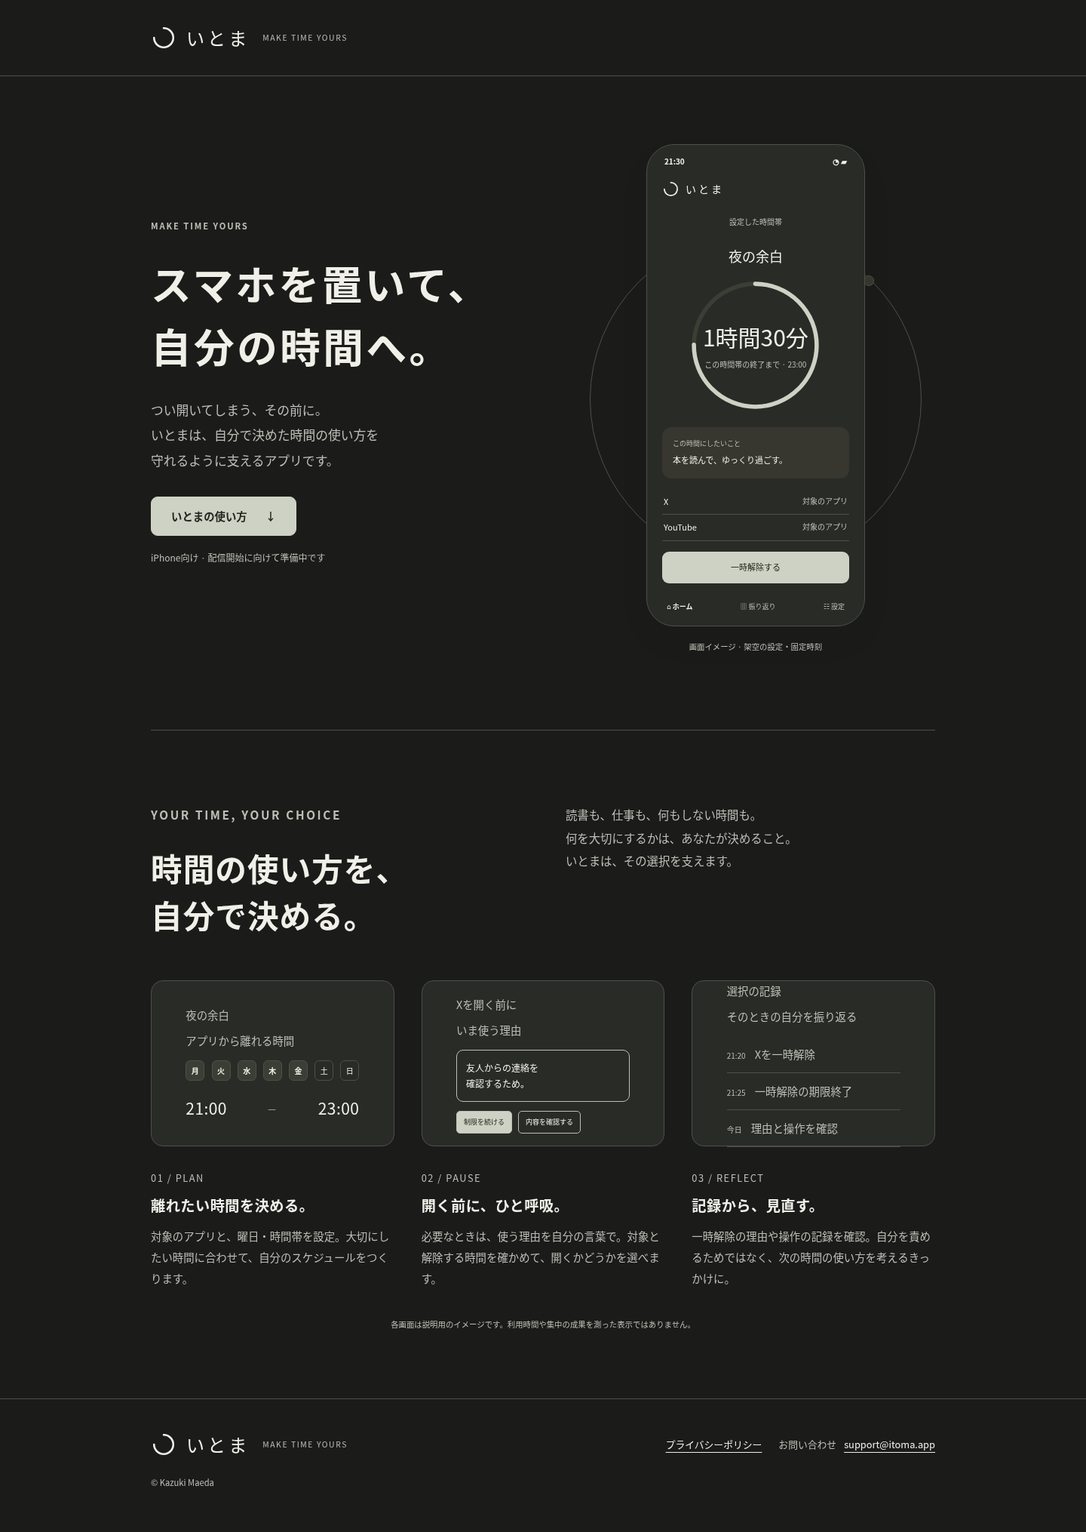
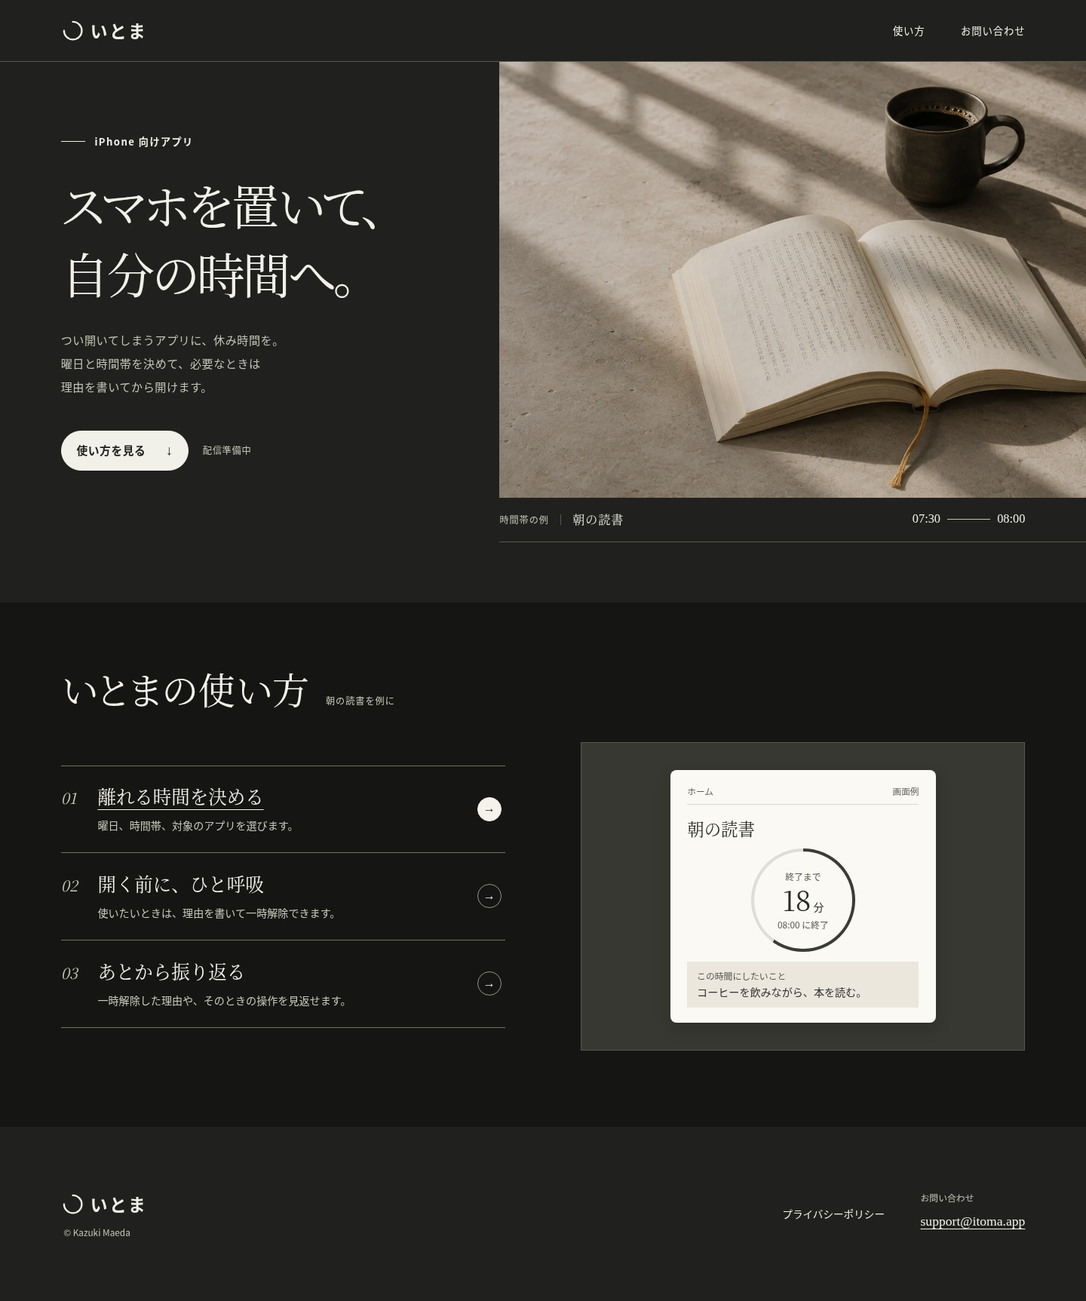
feat(site): 読書を題材にしたトップページを本番サイトに反映

diff --git a/site/src/index.html b/site/src/index.html
@@ -1,12 +1,109 @@
 <!doctype html>
-<html lang="ja"><head><meta charset="utf-8"><meta name="viewport" content="width=device-width,initial-scale=1"><meta name="color-scheme" content="light dark"><link rel="canonical" href="https://itoma.app/"><meta name="description" content="自分で決めた時間の使い方を、誘惑が強い瞬間にも。いとまの使い方をご紹介します。"><title>スマホを置いて、自分の時間へ。 | いとま</title><link rel="icon" type="image/svg+xml" href="/assets/site-mark.svg"><link rel="stylesheet" href="/assets/site.css"></head>
-<body><a class="skip" href="#main">本文へ移動</a>
-<header class="site-header"><div class="wrap header-inner"><a class="brand" href="/" aria-label="いとま トップ"><svg viewBox="0 0 40 40" fill="none" aria-hidden="true"><path d="M20 5A15 15 0 1 1 5 20" stroke="currentColor" stroke-width="3" stroke-linecap="round"/></svg><span>いとま</span><small>MAKE TIME YOURS</small></a></div></header>
+<html lang="ja">
+<head>
+  <meta charset="utf-8">
+  <meta name="viewport" content="width=device-width, initial-scale=1">
+  <meta name="color-scheme" content="light dark">
+  <link rel="canonical" href="https://itoma.app/">
+  <meta name="theme-color" content="#f8f6f1">
+  <meta name="description" content="つい開いてしまうアプリから少し離れて、自分で選んだ時間を過ごす。iPhone向けアプリ「いとま」の使い方。">
+  <title>スマホを置いて、自分の時間へ。｜いとま</title>
+  <link rel="icon" href="/assets/site-mark.svg" type="image/svg+xml">
+  <link rel="stylesheet" href="/assets/reading.css">
+</head>
+<body id="top">
+  <a class="skip" href="#main">本文へ移動</a>
+  <header class="mast frame">
+    <a class="wordmark" href="#top" aria-label="いとま トップ">
+      <svg viewBox="0 0 40 40" aria-hidden="true"><path d="M20 5A15 15 0 1 1 5 20"/></svg>
+      <span>いとま</span>
+    </a>
+    <nav aria-label="メインナビゲーション">
+      <a href="#how-it-works">使い方</a>
+      <a href="#contact">お問い合わせ</a>
+    </nav>
+  </header>
 
-<main id="main"><div class="wrap"><section class="hero"><div><p class="eyebrow">MAKE TIME YOURS</p><h1>スマホを置いて、<br>自分の時間へ。</h1><p class="lead">つい開いてしまう、その前に。<br>いとまは、自分で決めた時間の使い方を<br>守れるように支えるアプリです。</p><div class="cta-row"><a class="button" href="#how-it-works">いとまの使い方 <span aria-hidden="true">↓</span></a></div><p class="availability">iPhone向け · 配信開始に向けて準備中です</p></div><figure class="hero-art"><div class="orbit" aria-hidden="true"></div><div><div class="phone" role="img" aria-label="架空の画面例。夜の余白、設定上の終了まで1時間30分、23時に終了。XとYouTubeを対象にした時間帯。実際のOS制限の証拠ではありません。"><div aria-hidden="true"><div class="phone-status"><span>21:30</span><span>◔ ▰</span></div><div class="phone-brand"><svg viewBox="0 0 40 40" fill="none" aria-hidden="true"><path d="M20 5A15 15 0 1 1 5 20" stroke="currentColor" stroke-width="3" stroke-linecap="round"/></svg>いとま</div><p class="phone-label">設定した時間帯</p><p class="phone-title">夜の余白</p><div class="countdown"><svg viewBox="0 0 200 200"><circle cx="100" cy="100" r="88" fill="none" stroke="var(--soft)" stroke-width="6"/><circle cx="100" cy="100" r="88" fill="none" stroke="var(--accent)" stroke-width="6" stroke-dasharray="414.7 553" stroke-linecap="round"/></svg><div class="value">1時間30分<small>この時間帯の終了まで · 23:00</small></div></div><div class="purpose"><span>この時間にしたいこと</span>本を読んで、ゆっくり過ごす。</div><div class="app-row">X<span>対象のアプリ</span></div><div class="app-row">YouTube<span>対象のアプリ</span></div><div class="mock-button">一時解除する</div><div class="mock-tabs"><b>⌂ ホーム</b><span>▥ 振り返り</span><span>☷ 設定</span></div></div></div></div><figcaption class="figure-caption">画面イメージ · 架空の設定・固定時刻</figcaption></figure></section>
-<section class="section" id="how-it-works"><div class="section-intro"><div><p class="eyebrow">YOUR TIME, YOUR CHOICE</p><h2>時間の使い方を、<br>自分で決める。</h2></div><p>読書も、仕事も、何もしない時間も。<br>何を大切にするかは、あなたが決めること。<br>いとまは、その選択を支えます。</p></div><div class="steps">
-<article class="step"><div class="step-illustration" aria-hidden="true"><div class="mini"><p class="mini-label">夜の余白</p><p class="mini-heading">アプリから離れる時間</p><div class="weekdays"><span class="chosen">月</span><span class="chosen">火</span><span class="chosen">水</span><span class="chosen">木</span><span class="chosen">金</span><span class="">土</span><span class="">日</span></div><div class="time-pair">21:00 <small>—</small> 23:00</div></div></div><small>01 / PLAN</small><h3>離れたい時間を決める。</h3><p>対象のアプリと、曜日・時間帯を設定。大切にしたい時間に合わせて、自分のスケジュールをつくります。</p></article>
-<article class="step"><div class="step-illustration" aria-hidden="true"><div class="mini"><p class="mini-label">Xを開く前に</p><p class="mini-heading">いま使う理由</p><div class="mini-input">友人からの連絡を<br>確認するため。</div><div class="mini-choice"><span>制限を続ける</span><span>内容を確認する</span></div></div></div><small>02 / PAUSE</small><h3>開く前に、ひと呼吸。</h3><p>必要なときは、使う理由を自分の言葉で。対象と解除する時間を確かめて、開くかどうかを選べます。</p></article>
-<article class="step"><div class="step-illustration" aria-hidden="true"><div class="mini"><p class="mini-label">選択の記録</p><p class="mini-heading">そのときの自分を振り返る</p><div class="record-lines"><p><time>21:20</time>Xを一時解除</p><p><time>21:25</time>一時解除の期限終了</p><p><time>今日</time>理由と操作を確認</p></div></div></div><small>03 / REFLECT</small><h3>記録から、見直す。</h3><p>一時解除の理由や操作の記録を確認。自分を責めるためではなく、次の時間の使い方を考えるきっかけに。</p></article></div><p class="figure-caption">各画面は説明用のイメージです。利用時間や集中の成果を測った表示ではありません。</p></section>
-</div></main>
-<footer class="footer" id="contact"><div class="wrap"><div class="footer-inner"><a class="brand" href="/" aria-label="いとま トップ"><svg viewBox="0 0 40 40" fill="none" aria-hidden="true"><path d="M20 5A15 15 0 1 1 5 20" stroke="currentColor" stroke-width="3" stroke-linecap="round"/></svg><span>いとま</span><small>MAKE TIME YOURS</small></a><nav class="footer-links" aria-label="フッター"><a href="/privacy/">プライバシーポリシー</a><span class="footer-contact"><span>お問い合わせ</span><a href="mailto:support@itoma.app">support@itoma.app</a></span></nav></div><p class="footer-copy">© Kazuki Maeda</p></div></footer></body></html>
+  <main id="main">
+    <section class="hero" aria-labelledby="intro-title">
+      <div class="hero-photo">
+        <img src="/assets/reading-1440.webp" srcset="/assets/reading-800.webp 800w, /assets/reading-1440.webp 1440w"
+             sizes="(max-width: 740px) 100vw, 58vw" width="1440" height="960" fetchpriority="high"
+             alt="朝の光が差すテーブルに、開いた文庫本とコーヒー。">
+      </div>
+      <div class="intro">
+        <p class="platform">iPhone 向けアプリ</p>
+        <h1 id="intro-title"><span>スマホを置いて、</span><span>自分の時間へ。</span></h1>
+        <p class="lead">つい開いてしまうアプリに、休み時間を。<br>曜日と時間帯を決めて、必要なときは<br class="wide-break">理由を書いてから開けます。</p>
+        <div class="hero-action">
+          <a class="cta" href="#how-it-works">使い方を見る <span aria-hidden="true">↓</span></a>
+          <span class="release">配信準備中</span>
+        </div>
+      </div>
+      <div class="caption">
+        <span class="caption-title"><span class="example">時間帯の例</span> 朝の読書</span>
+        <span class="period"><time>07:30</time><span class="time-line" aria-hidden="true"></span><span class="sr">から</span><time>08:00</time></span>
+      </div>
+    </section>
+
+    <section class="how" id="how-it-works" aria-labelledby="how-title">
+      <div class="frame">
+        <div class="how-head">
+          <h2 id="how-title">いとまの使い方</h2>
+          <span class="how-note">朝の読書を例に</span>
+        </div>
+        <div class="walk">
+          <fieldset class="choices">
+            <legend class="sr">画面例を選ぶ</legend>
+            <label class="choice">
+              <input id="choose-plan" type="radio" name="scene" checked aria-controls="plan">
+              <span class="row-content"><span class="step-num">01</span><span class="row-text"><strong>離れる時間を決める</strong><span>曜日、時間帯、対象のアプリを選びます。</span></span><span class="switch-icon" aria-hidden="true">→</span></span>
+            </label>
+            <label class="choice">
+              <input id="choose-pause" type="radio" name="scene" aria-controls="pause">
+              <span class="row-content"><span class="step-num">02</span><span class="row-text"><strong>開く前に、ひと呼吸</strong><span>使いたいときは、理由を書いて一時解除できます。</span></span><span class="switch-icon" aria-hidden="true">→</span></span>
+            </label>
+            <label class="choice">
+              <input id="choose-reflect" type="radio" name="scene" aria-controls="reflect">
+              <span class="row-content"><span class="step-num">03</span><span class="row-text"><strong>あとから振り返る</strong><span>一時解除した理由や、そのときの操作を見返せます。</span></span><span class="switch-icon" aria-hidden="true">→</span></span>
+            </label>
+          </fieldset>
+          <div class="viewer" aria-label="架空の設定を使った画面例">
+            <div class="screen" id="plan">
+              <div class="screen-bar"><span>ホーム</span><span>画面例</span></div>
+              <p class="screen-rule">朝の読書</p>
+              <div class="clock"><div><span class="clock-small">終了まで</span><b>18<span> 分</span></b><span class="clock-small">08:00 に終了</span></div></div>
+              <p class="goal">この時間にしたいこと<span>コーヒーを飲みながら、本を読む。</span></p>
+            </div>
+            <div class="screen" id="pause">
+              <div class="screen-bar"><span>一時解除</span><span>画面例</span></div>
+              <p class="screen-rule">いま使う理由</p>
+              <div class="sample-field"><span>メッセージを開く理由</span><p>待ち合わせの時間を<br>友人に伝えるため。</p></div>
+              <dl class="screen-details"><div><dt>一時解除する時間</dt><dd>5分</dd></div></dl>
+            </div>
+            <div class="screen" id="reflect">
+              <div class="screen-bar"><span>操作履歴</span><span>画面例</span></div>
+              <p class="screen-rule">朝の読書</p>
+              <ol class="timeline">
+                <li><time>07:45</time><div>メッセージを一時解除<p>待ち合わせの時間を友人に伝えるため。</p></div></li>
+                <li><time>07:50</time><div>一時解除の期限終了</div></li>
+              </ol>
+            </div>
+          </div>
+        </div>
+      </div>
+    </section>
+  </main>
+
+  <footer id="contact" class="foot frame">
+    <div class="signature">
+      <a class="wordmark" href="#top" aria-label="いとま ページの先頭へ"><svg viewBox="0 0 40 40" aria-hidden="true"><path d="M20 5A15 15 0 1 1 5 20"/></svg><span>いとま</span></a>
+      <small>© Kazuki Maeda</small>
+    </div>
+    <nav aria-label="フッター">
+      <a href="/privacy/">プライバシーポリシー</a>
+      <div class="contact"><span>お問い合わせ</span><a lang="en" href="mailto:support@itoma.app">support@itoma.app</a></div>
+    </nav>
+  </footer>
+</body>
+</html>

diff --git a/site/src/assets/reading.css b/site/src/assets/reading.css
@@ -1,0 +1,157 @@
+:root {
+  color-scheme: light;
+  --paper: #f8f6f1;
+  --ink: #23231f;
+  --sub: #5e5d54;
+  --line: #d3cfc4;
+  --panel: #262723;
+  --chalk: #f4f2ea;
+  --pale: #c8c8ba;
+  --gutter: max(5.6vw, calc((100vw - 1392px) / 2));
+  --serif: "Hiragino Mincho ProN", "Yu Mincho", YuMincho, "Noto Serif CJK JP", "Noto Serif JP", serif;
+  --sans: -apple-system, BlinkMacSystemFont, "Hiragino Sans", "Yu Gothic", "Noto Sans CJK JP", sans-serif;
+  font-family: var(--sans);
+}
+* { box-sizing: border-box; }
+html { scroll-behavior: smooth; }
+body { margin: 0; background: var(--paper); color: var(--ink); line-height: 1.65; }
+a { color: inherit; text-underline-offset: .25em; }
+p, h1, h2, ol, dl, dd, fieldset { margin: 0; }
+a:focus-visible { outline: 2px solid currentColor; outline-offset: 4px; }
+.skip, .sr, .choice input { position: absolute; width: 1px; height: 1px; padding: 0; overflow: hidden; clip-path: inset(50%); white-space: nowrap; }
+.skip:focus { z-index: 3; inset: .5rem auto auto .5rem; width: auto; height: auto; clip-path: none; padding: .7rem 1rem; background: var(--paper); }
+.frame { padding-inline: var(--gutter); }
+.mast, .foot, .mast nav, .foot nav, .wordmark, .hero-action, .caption, .period, .how-head, .screen-bar { display: flex; align-items: center; }
+.mast { justify-content: space-between; min-block-size: 5.1rem; border-bottom: 1px solid var(--line); }
+.wordmark { width: fit-content; gap: .34em; text-decoration: none; min-height: 44px; font-size: 1.42rem; font-weight: 600; letter-spacing: .11em; }
+.wordmark svg { width: 1.38em; height: 1.38em; fill: none; stroke: currentColor; stroke-width: 3; stroke-linecap: round; }
+.mast nav, .foot nav { gap: clamp(1.5rem, 3.3vw, 3.75rem); }
+.mast nav a, .foot nav a { display: inline-flex; align-items: center; min-height: 44px; text-decoration: none; }
+.mast nav a { font-size: .84rem; letter-spacing: .06em; }
+.mast nav a:hover, .foot a:hover { text-decoration: underline; }
+.hero {
+  display: grid;
+  grid-template-columns: minmax(0, 46fr) minmax(0, 54fr);
+  grid-template-rows: 1fr auto;
+  position: relative;
+  max-width: 1740px;
+  margin-inline: auto;
+}
+.intro { grid-area: 1 / 1 / 3 / 2; align-self: center; padding: clamp(3rem, 6.6vw, 7.6rem) 1.2rem clamp(3rem, 6.6vw, 7.6rem) var(--gutter); }
+.platform { display: flex; align-items: center; gap: .8rem; font-size: .82rem; letter-spacing: .11em; font-weight: 550; }
+.platform::before { content: ""; inline-size: 2rem; height: 1px; background: currentColor; }
+h1, h2, .row-text strong, .caption-title, .screen-rule, .sample-field p { font-family: var(--serif); font-weight: 500; }
+h1 { margin: 1.65rem 0 1.75rem; font-size: clamp(2.6rem, 4.45vw, 5.05rem); line-height: 1.42; letter-spacing: -.055em; font-feature-settings: "palt"; }
+h1 span { display: block; }
+.lead { font-size: clamp(.91rem, 1.05vw, 1.09rem); line-height: 2.05; letter-spacing: .035em; color: var(--sub); }
+.hero-action { flex-wrap: wrap; gap: .6rem 1.15rem; margin-top: clamp(1.8rem, 3vw, 3rem); }
+.cta { display: inline-flex; align-items: center; justify-content: space-between; gap: 1.65rem; min-height: 50px; padding: .7em 1.35em; border: 1px solid var(--ink); border-radius: 4rem; color: var(--paper); background: var(--ink); text-decoration: none; font-size: .92rem; font-weight: 550; letter-spacing: .04em; }
+.cta span { font-family: Arial, sans-serif; font-size: 1.14rem; transition: transform .15s ease-out; }
+.cta:hover span { transform: translateY(2px); }
+.release { color: var(--sub); font-size: .77rem; letter-spacing: .05em; }
+.hero-photo { grid-area: 1 / 2; position: relative; min-height: clamp(29rem, 38vw, 42rem); overflow: hidden; background: #c5bba8; }
+.hero-photo img { display: block; width: 100%; height: 100%; position: absolute; inset: 0; object-fit: cover; object-position: 60% 56%; }
+.caption { flex-wrap: wrap; grid-area: 2 / 2; justify-content: space-between; gap: 1rem; padding: .85rem var(--gutter) .85rem 0; min-height: 3.65rem; border-bottom: 1px solid var(--line); }
+.caption-title { display: flex; align-items: center; gap: .95rem; font-size: 1rem; letter-spacing: .06em; }
+.example, .how-note, .screen-bar { font-family: var(--sans); font-size: .76rem; }
+.example { padding-inline-end: .95rem; border-inline-end: 1px solid var(--line); line-height: 1.2; color: var(--sub); }
+.period { gap: .55rem; font-family: Georgia, "Times New Roman", serif; font-size: 1.02rem; font-variant-numeric: tabular-nums; }
+.time-line { inline-size: clamp(1.6rem, 4vw, 4rem); height: 1px; background: var(--sub); }
+.how { margin-block-start: clamp(3rem, 5.6vw, 6.25rem); color: var(--chalk); background: var(--panel); padding-block: clamp(3.4rem, 5.6vw, 6rem) clamp(4rem, 7vw, 7rem); }
+.how-head { align-items: baseline; gap: 1.35rem; margin-block-end: 2.4rem; }
+h2 { font-size: clamp(2.15rem, 3.4vw, 3.7rem); line-height: 1.35; letter-spacing: .005em; font-feature-settings: "palt"; }
+.how-note { color: var(--pale); letter-spacing: .08em; }
+.walk { display: grid; align-items: center; grid-template-columns: minmax(0, 1fr) minmax(0, 1fr); gap: clamp(2rem, 7vw, 7rem); }
+.choices { min-width: 0; padding: 0; border: 0; border-top: 1px solid #717267; }
+.choice { position: relative; display: block; cursor: pointer; border-bottom: 1px solid #717267; }
+.row-content { display: grid; grid-template-columns: 2.3rem 1fr auto; align-items: baseline; column-gap: .75rem; padding: 1.4rem .3rem 1.45rem 0; }
+.step-num { font-family: Georgia, serif; font-size: 1.25rem; font-style: italic; color: var(--pale); }
+.row-text { display: grid; gap: .45rem; }
+.row-text strong { font-size: clamp(1.25rem, 1.7vw, 1.8rem); line-height: 1.5; }
+.row-text > span { color: var(--pale); font-size: .88rem; line-height: 1.8; }
+.switch-icon { align-self: center; display: grid; place-items: center; width: 2rem; height: 2rem; border: 1px solid #949489; border-radius: 50%; font-family: Arial, sans-serif; }
+input:checked + .row-content .switch-icon { color: var(--panel); background: var(--chalk); border-color: var(--chalk); }
+input:checked + .row-content .row-text strong { text-decoration: underline; text-decoration-thickness: 1px; text-underline-offset: .28em; }
+input:focus-visible + .row-content { outline: 2px solid var(--chalk); outline-offset: 3px; }
+.choice:hover .switch-icon { border-color: var(--chalk); }
+.viewer { padding: clamp(1.1rem, 2.5vw, 2.5rem); display: grid; grid-template-columns: minmax(0, 1fr); container-type: inline-size; place-items: center; background: #373831; border: 1px solid #56574e; min-width: 0; }
+.screen { width: min(100%, 22rem); min-height: 20.3rem; padding: 1.1rem 1.4rem 1.3rem; color: #2a2b26; background: #faf9f4; border-radius: 8px; box-shadow: 0 .45rem 1.25rem #16171038; overflow-wrap: anywhere; }
+.screen + .screen { display: none; }
+.walk:has(#choose-pause:checked) #plan, .walk:has(#choose-reflect:checked) #plan { display: none; }
+.walk:has(#choose-pause:checked) #pause, .walk:has(#choose-reflect:checked) #reflect { display: block; }
+.screen-bar { justify-content: space-between; border-bottom: 1px solid #d7d5cb; padding-block-end: .5rem; color: #626258; font-size: .73rem; }
+.screen-rule { margin-top: .8rem; font-size: 1.4rem; }
+.clock { display: grid; place-items: center; width: 8.6rem; height: 8.6rem; margin: .5rem auto .8rem; border-radius: 50%; background: conic-gradient(#3b3d35 0 60%, #deded5 60%); }
+.clock > div { display: grid; align-content: center; justify-items: center; width: calc(100% - 8px); height: calc(100% - 8px); background: #faf9f4; border-radius: inherit; }
+.clock b { font: 2.3rem/1.22 Georgia, serif; }
+.clock b span { font: .87rem var(--sans); }
+.clock-small, .goal, .sample-field > span, .screen-details dt, .timeline time { font-size: .74rem; color: #55564d; }
+.goal { padding: .55rem .8rem; background: #ebe7dd; }
+.goal span { display: block; color: #30312b; font-size: .88rem; }
+.sample-field { padding: .8rem 1rem; margin-block: 1rem; border: 1px solid #bcbcaf; border-radius: 3px; }
+.sample-field p { margin-top: .4rem; font-size: 1.17rem; }
+.screen-details > div { border-top: 1px solid #d7d5cb; display: flex; align-items: baseline; justify-content: space-between; gap: .75rem; padding-top: .65rem; }
+.screen-details dd, .timeline li { font-size: .9rem; }
+.timeline { padding: 0; list-style: none; margin-top: 1.2rem; }
+.timeline li { display: grid; grid-template-columns: max-content 1fr; align-items: baseline; gap: .8rem; border-top: 1px solid #d7d5cb; padding-block: .8rem; }
+.timeline time { font-family: Georgia, serif; font-size: .93rem; }
+.timeline p { margin-top: .3rem; font-size: .81rem; color: #55564d; }
+.foot { justify-content: space-between; gap: 2rem; padding-block: clamp(2.5rem, 5.6vw, 6rem); }
+.signature small, .contact > span { color: var(--sub); font-size: .74rem; }
+.signature small { display: block; margin: .35rem 0 0 .22rem; }
+.foot nav a { font-size: .85rem; }
+.contact { display: grid; }
+.contact a[lang] { font: 1.1rem Georgia, serif; text-decoration: underline; }
+@media (min-width: 1740px) { .hero { border-right: 1px solid var(--line); } .intro { padding-left: calc((1740px - 1392px) / 2); } }
+@media (max-width: 900px) {
+  .wide-break { display: none; }
+  .caption { padding-right: 1.15rem; }
+  .walk { gap: 2rem; }
+  .row-content { grid-template-columns: 1.7rem 1fr auto; }
+}
+@media (max-width: 740px) {
+  :root { --gutter: clamp(16px, 5.4vw, 38px); }
+  .mast { min-height: 3.8rem; flex-wrap: wrap; gap: .3rem; }
+  .mast nav { gap: 1.15rem; }
+  .mast nav a { font-size: .78rem; }
+  .wordmark { font-size: 1.22rem; }
+  .hero { display: flex; flex-direction: column; }
+  .intro { order: 0; align-self: stretch; padding: 2.45rem var(--gutter) 2rem; }
+  .platform { font-size: .74rem; }
+  h1 { font-size: clamp(2.5rem, 8.8vw, 3.6rem); margin: .95rem 0 1rem; line-height: 1.38; }
+  .lead { max-width: 30em; }
+  .hero-action { margin-top: 1.3rem; }
+  .hero-photo { order: 1; min-height: 0; aspect-ratio: 1.88; }
+  .hero-photo img { object-position: center 54%; }
+  .caption { order: 2; padding: .7rem var(--gutter); min-height: 3.1rem; }
+  .caption-title { font-size: .9rem; gap: .6rem; }
+  .example { font-size: .68rem; padding-right: .6rem; }
+  .how { margin-top: 0; padding-block: 2.8rem 3rem; }
+  .how-head { gap: .7rem 1rem; margin-bottom: 1.5rem; flex-wrap: wrap; }
+  .walk { grid-template-columns: minmax(0, 1fr); gap: 1.25rem; }
+  .row-content { padding-block: .85rem; }
+  .row-text { gap: .15rem; }
+  .row-text > span { font-size: .82rem; }
+  .viewer { min-height: 21rem; padding-inline: clamp(12px, 4vw, 24px); }
+  .switch-icon { transform: rotate(90deg); }
+  .foot { align-items: flex-start; flex-wrap: wrap; }
+  .foot nav { flex-wrap: wrap; align-items: flex-start; gap: 1rem 1.8rem; }
+}
+@container (max-width: 16rem) {
+  .screen { padding-inline: 10px; min-width: 0; }
+  .clock { width: 100%; height: auto; background: transparent; }
+  .clock > div { width: 100%; height: auto; border-radius: 0; border-block: 1px solid #deded5; padding-block: .5em; }
+}
+@media (prefers-color-scheme: dark) {
+  :root { color-scheme: dark; --paper: #20211e; --ink: #f1f0e9; --sub: #c2c2b7; --line: #56574f; --panel: #151613; }
+  .hero-photo img { filter: brightness(.86); }
+}
+@media (prefers-reduced-motion: reduce) {
+  html { scroll-behavior: auto; }
+  .cta span { transition: none; }
+  .cta:hover span { transform: none; }
+}
+@media (forced-colors: active) {
+  input:checked + .row-content .switch-icon { outline: 3px double Highlight; }
+  .clock { border: 2px solid CanvasText; }
+}
